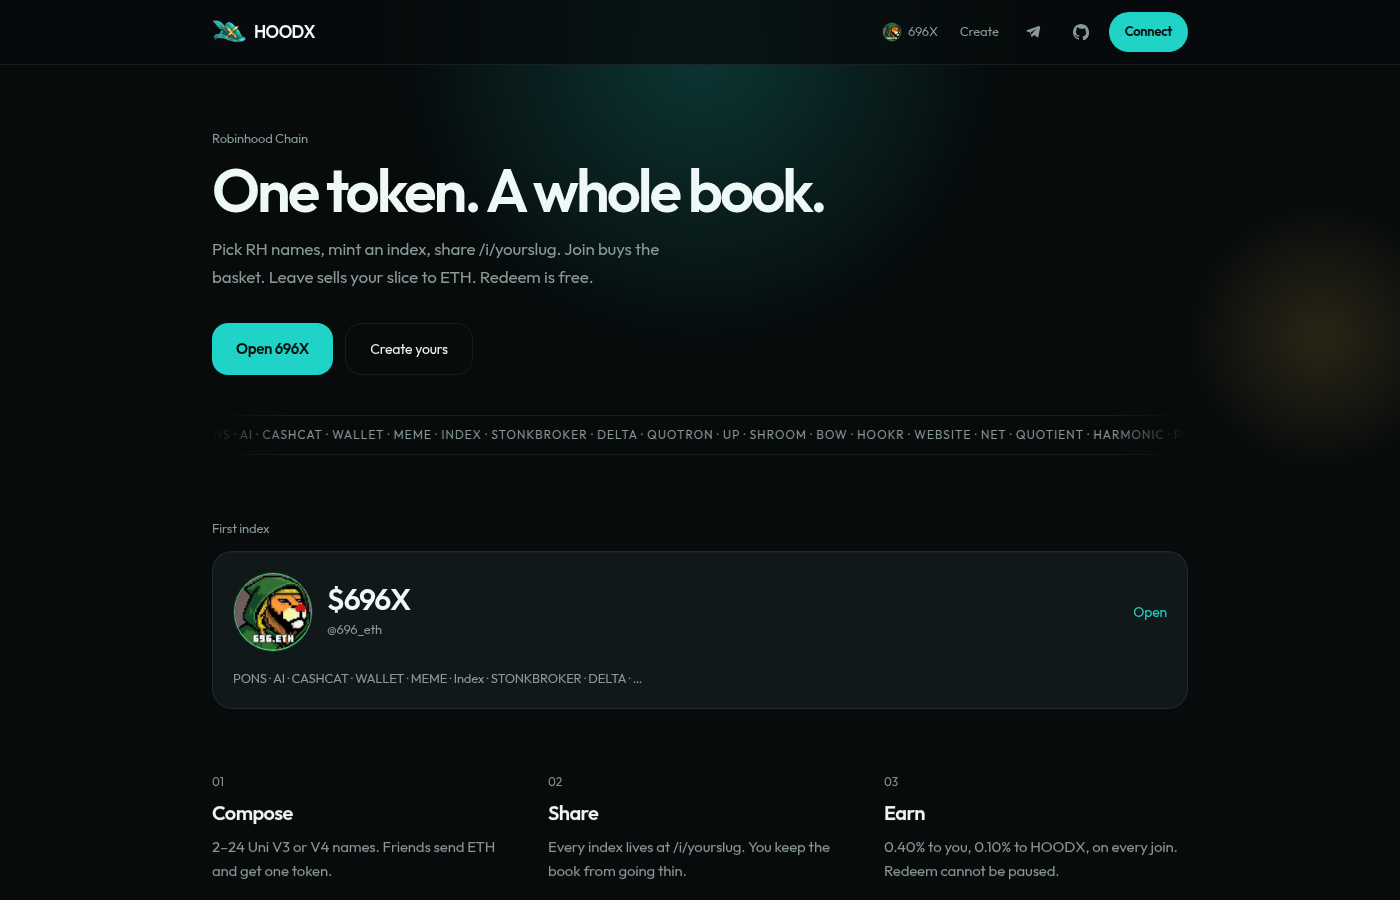
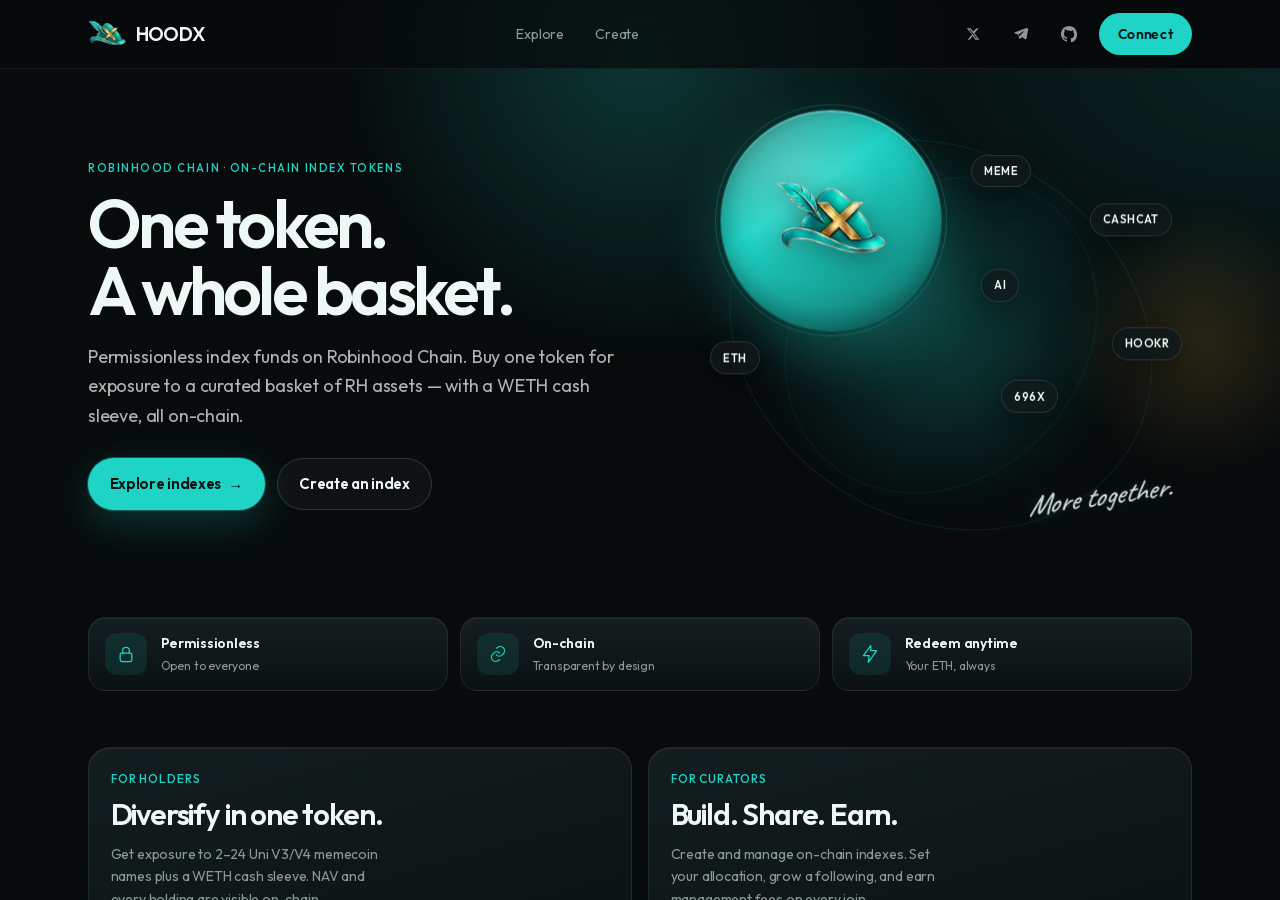
Refresh GitHub docs for hardened deploy and new landing
Update README, DESIGN, and QUOTE_BIND with the live factory, implementation,
swap logic, and vault addresses. Replace screenshots and copy with the new
"One token. A whole basket." landing and vault desk UI.

diff --git a/app/layout.tsx b/app/layout.tsx
@@ -36,7 +36,7 @@ export const metadata: Metadata = {
   alternates: { canonical: "/" },
   openGraph: {
     title: "HOODX",
-    description: "Live on Robinhood Chain. One token. A whole book.",
+    description: "Live on Robinhood Chain. One token. A whole basket.",
     url: SITE_URL,
     siteName: "HOODX",
     type: "website",

diff --git a/README.md b/README.md
@@ -5,8 +5,8 @@
 <h1 align="center">HOODX</h1>
 
 <p align="center">
-  <strong>The index factory for Robinhood Chain.</strong><br />
-  One token. A whole book.
+  <strong>Robinhood Chain · On-chain index tokens</strong><br />
+  One token. A whole basket.
 </p>
 
 <p align="center">
@@ -27,29 +27,30 @@
 </p>
 
 <p align="center">
-  <img src="docs/hud-home.png" alt="HOODX HUD — One token. A whole book." width="920" />
+  <img src="docs/hud-home.png" alt="HOODX — One token. A whole basket." width="920" />
 </p>
 
-HOODX is live on **Robinhood Chain (4663)**. Anyone can mint a trustless meme basket — 2 to 24 Uniswap V3 WETH/USDG or V4 ETH/stock-quote names — as a single ERC-20. Friends send ETH. The vault buys the book. They hold one token, not a folder of airdrops.
+HOODX is live on **Robinhood Chain (4663)**. Permissionless index funds — buy one token for exposure to a curated basket of RH assets, with a WETH cash sleeve, all on-chain. Anyone can mint 2–24 Uniswap V3 WETH/USDG or hookless V4 ETH/stock-quote names as a single ERC-20.
 
-You drop `/i/yourslug`. You keep the book from going thin. You earn a cut on every join. **Redeem is free, and it cannot be paused.**
+You drop `/i/yourslug`. You keep the basket from going thin. You earn a cut on every join. **Redeem is free, and it cannot be paused.**
 
 ---
 
 ## $696X is live
 
-**$696X** is index zero: [696_eth’s RH watchlist](https://x.com/696_eth/status/2100067116594725086) as one bag. The HUD carries 696’s X picture. One share starts at **$100 of ETH**. Join buys the mix. Leave sells your slice back to ETH.
+**$696X** is index zero: [696_eth’s RH watchlist](https://x.com/696_eth/status/2100067116594725086) as one basket. The HUD carries 696’s X picture. One share starts at **$100 of ETH**. Join buys the mix. Leave sells your slice back to ETH.
 
 <p align="center">
-  <img src="docs/hud-696x.png" alt="$696X — You, ROI, vault names, Join and Leave" width="920" />
+  <img src="docs/hud-696x.png" alt="$696X — vault desk, ROI, basket, join and leave" width="920" />
 </p>
 
 | | On-chain now |
 |---|---|
 | Vault | [`0xAC45f6FffB17645057aa783b72b2Ce78BD7A1a3A`](https://robinhoodchain.blockscout.com/address/0xAC45f6FffB17645057aa783b72b2Ce78BD7A1a3A) |
+| Factory | [`0x56809a2738A23650aF939F73588E72C67CafC19b`](https://robinhoodchain.blockscout.com/address/0x56809a2738A23650aF939F73588E72C67CafC19b) |
 | Status | **Live** · joins open · redeem open |
 | Share | ~0.04 ETH · genesis peg **$100** of ETH |
-| Book | 10 listed names · no hooked/thin books · Uni V3 TWAP + hookless V4 · 25% WETH cash |
+| Basket | 10 listed names · hooked/thin pools blocked · Uni V3 TWAP + hookless V4 · ~40% WETH cash |
 | Fees | 0.50% in · **0% out** |
 | First mint | Open · **0.08 ETH** (~$200). Later joins copy the live mix. |
 | Token image | On-chain `imageURI` / ERC-7572 `contractURI` · 696 PFP |
@@ -64,7 +65,7 @@ Telegram: [t.me/HOODXINDEX](https://t.me/HOODXINDEX)
   <tr>
     <td width="33%" valign="top">
       <h3>01 · Compose</h3>
-      <p>Pick 2–24 RH names with a Uni V3 WETH/USDG or V4 ETH/stock-quote pool. Paste any <code>0x</code> the HUD can price. Names too small stay ETH.</p>
+      <p>Pick 2–24 RH names with a Uni V3 WETH/USDG or hookless V4 ETH/stock-quote pool. Paste any <code>0x</code> the HUD can price. Names too small stay ETH.</p>
     </td>
     <td width="33%" valign="top">
       <h3>02 · Share</h3>
@@ -80,7 +81,7 @@ Telegram: [t.me/HOODXINDEX](https://t.me/HOODXINDEX)
 ```
 ETH in ── 0.10% protocol
        ── 0.40% creator
-       └── net buys the book (Uni V3 TWAP / V4 ETH, 3% max slip)
+       └── net buys the basket (Uni V3 TWAP / hookless V4, 3% max slip)
               ├── thin names stay WETH
               ├── cash sleeve for exits
               └── Leave sells your slice back to ETH. Fee: 0.
@@ -92,8 +93,8 @@ ETH in ── 0.10% protocol
 | Share at genesis | $100 of ETH | $100 of ETH |
 | Join | 0.50% | 0.10% protocol + 0–0.50% you |
 | Redeem | **0% · cannot be paused** | same |
-| Book | 2–24 names · curator rebalances | same |
-| Add a name | paste any RH `0x` with a V3 WETH or V4 ETH pool | same |
+| Basket | 2–24 names · curator rebalances | same |
+| Add a name | paste any RH `0x` with a safe V3 WETH or hookless V4 pool | same |
 
 A name that cannot fill inside 3% stays ETH. NAV is **every sleeve plus WETH** — not one pool token standing in for the fund. USD on the HUD is the live ETH tape, never a hardcoded price.
 
@@ -124,14 +125,14 @@ The factory is permissionless. `HoodxFactory.create` is for anyone. `create696x`
 
 ## HUD
 
-Next.js 15, viem, no private keys. Uniswap-quiet dark UI. Hat mark, teal `#1fd4c6`, gold `#e0b54a`.
+Next.js 15, viem, no private keys. Dark landing with teal `#1fd4c6`, gold `#e0b54a`, and the hat mark.
 
 Production: **[www.xhoodindex.com](https://www.xhoodindex.com)** (`xhoodindex.com` redirects there).
 
 | Route | |
 |---|---|
-| `/` | HOODX · featured $696X · create |
-| `/i/696x` | You / ROI / vault / NAV · join · leave · book |
+| `/` | Landing · explore indexes · create |
+| `/i/696x` | You / ROI / vault / NAV · join · leave · basket |
 | `/i/[slug]` | any index |
 | `/create` | mint |
 
@@ -141,23 +142,26 @@ npm install
 npm run dev     # http://127.0.0.1:3100
 ```
 
-Vercel builds this Next HUD from the repository root. `.env.example` already points at the live factory, $696X vault, and `https://www.xhoodindex.com`. Emptied clone `0xeBFA…5C24` (old factory `0x46ea…`) is ignored even if a stale `NEXT_PUBLIC_*` pin is still on the project.
+Vercel builds this Next HUD from the repository root. `.env.example` already points at the live hardened factory, $696X vault, and `https://www.xhoodindex.com`. Legacy pins (`0x46ea…`, `0xeBFA…`, `0x6350…`, `0x3860…`) are ignored even if a stale `NEXT_PUBLIC_*` is still on the project.
 
 ---
 
 ## Contracts
 
-Robinhood Chain **4663**. EIP-1167 clones of `HoodxIndex`.
+Robinhood Chain **4663**. EIP-1167 clones of hardened `HoodxIndex`.
 
 | | Address |
 |---|---|
 | **Factory** | [`0x56809a2738A23650aF939F73588E72C67CafC19b`](https://robinhoodchain.blockscout.com/address/0x56809a2738A23650aF939F73588E72C67CafC19b) |
-| Implementation | [`0x21B0aE9ecb112d828C6a66b82FdD413B99e44f19`](https://robinhoodchain.blockscout.com/address/0x21B0aE9ecb112d828C6a66b82FdD413B99e44f19) |
+| Implementation | [`0x7A5A47022E993401c5C6CFce0208c10fB032025E`](https://robinhoodchain.blockscout.com/address/0x7A5A47022E993401c5C6CFce0208c10fB032025E) |
+| Swap logic | [`0x2505a3185136cE990077a71c4929a115d9AEDf75`](https://robinhoodchain.blockscout.com/address/0x2505a3185136cE990077a71c4929a115d9AEDf75) |
 | **$696X vault** | [`0xAC45f6FffB17645057aa783b72b2Ce78BD7A1a3A`](https://robinhoodchain.blockscout.com/address/0xAC45f6FffB17645057aa783b72b2Ce78BD7A1a3A) |
 | TWAP oracle | [`0x815A0D4909460B29c70868e24831f575cA86F3aD`](https://robinhoodchain.blockscout.com/address/0x815A0D4909460B29c70868e24831f575cA86F3aD) |
 | WETH | [`0x0Bd7D308f8E1639FAb988df18A8011f41EAcAD73`](https://robinhoodchain.blockscout.com/address/0x0Bd7D308f8E1639FAb988df18A8011f41EAcAD73) |
 | Uni V3 SwapRouter02 | [`0xCaf681a66D020601342297493863E78C959E5cb2`](https://robinhoodchain.blockscout.com/address/0xCaf681a66D020601342297493863E78C959E5cb2) |
 | Uni V4 PoolManager | [`0x8366a39CC670B4001A1121B8F6A443A643e40951`](https://robinhoodchain.blockscout.com/address/0x8366a39CC670B4001A1121B8F6A443A643e40951) |
+
+Deprecated (do not use): bricked vault `0x6350…1E33` · emptied vault `0xeBFA…5C24` · legacy factories `0x46ea…d2b9` / `0x3860…Df71`.
 
 ```
 contracts/HoodxFactory.sol   permissionless clones · create / create696x · imageURI
@@ -168,13 +172,14 @@ contracts/UniTwap.sol        V3 TWAP + V4 spot oracle
 
 - `deposit(minShares)` — 97% of preview. Joins can close; **withdraw ignores pause**.
 - `withdraw(shares, minEthOut)` — sells the slice, 3% per swap.
+- Hooked V4 pools revert at bind. Thin pools and unsafe names are blocked in the HUD.
 - Two-step `owner` (nominate → Accept). Creator-only fee recipient and bps.
 - V3 TWAP + V4 spot (mint uses `max(spot, lastPx)`). `restoreCash` is V3-only.
 - Quote bind: V3 WETH, V3 USDG, V4 ETH/WETH, V4 stock quote (PROMETHEUS/SPCX), V4 USDG.
 - `imageURI` + ERC-7572 `contractURI` at create; curator can `setImageURI`.
 
 ```bash
-python3 -m unittest tests.test_weights tests.test_vault
+python3 -m unittest tests.test_weights tests.test_vault tests.test_harden
 ```
 
 Read **[DESIGN.md](DESIGN.md)** for mint math, oracle limits, and the drain catalog.
@@ -185,7 +190,7 @@ Read **[DESIGN.md](DESIGN.md)** for mint math, oracle limits, and the drain cata
 
 - **Redeem stays open** if joins are paused. User ETH is not a curator hostage.
 - A typo owner (zero, vault, WETH, dead) reverts. The new curator cannot steal the creator cut.
-- NAV sums every priced sleeve plus WETH. One dumped pool cannot mint the rest of the book cheap.
+- NAV sums every priced sleeve plus WETH. One dumped pool cannot mint the rest of the basket cheap.
 - The live $696X clone above is canonical. Do not treat a second 696X deploy as this product.
 - DYOR. Not HOOD10. Not a seeded Uni pool yet. Not financial advice.
 

diff --git a/QUOTE_BIND.md b/QUOTE_BIND.md
@@ -27,15 +27,16 @@ PROMETHEUS and similar names trade on **V4 stock-quote pools** (e.g. PROMETHEUS/
 
 Refresh bridges + bind pools: `python3 scripts/refresh_rh_bridges.py`
 
-## Live 696X (`0x6350…1E33`)
+## Live 696X (`0xAC45…1a3A`)
 
-Canonical vault is an EIP-1167 clone of implementation `0x21B0…4f19` with
-`HoodxSwap` + `UniTwapOracle`. PROMETHEUS is bound to PROMETHEUS/SPCX V4
-`0x627c…de2e8` (not the thin ETH stub). USDG V3/V4 and RH-stock quote binds
-work on this bytecode. Curator `setQuoteBridge` / `addToken` for new names
-without another relaunch.
+Canonical vault is an EIP-1167 clone of implementation `0x7A5A…025E` on
+factory `0x5680…C19b`, with hardened `HoodxSwap` + `UniTwapOracle`. Hooked V4
+pools revert at bind. PROMETHEUS/SPCX and USDG quote binds work on this
+bytecode. Curator `setQuoteBridge` / `addToken` for new names without another
+relaunch.
 
-Old emptied clone `0xeBFA…5C24` (factory `0x46ea…d2b9`) cannot be patched.
+Deprecated clones (`0x6350…1E33`, `0xeBFA…5C24`, older factories) cannot be
+patched and are ignored by the HUD.
 
 ## Security (carried from live / funds-safe)
 

diff --git a/DESIGN.md b/DESIGN.md
@@ -175,11 +175,13 @@ drift (sell the tail, buy PONS/AI/CASHCAT). Later joins copy the live mix.
 
 ## Live funds (do not trap)
 
-696X is live. User ETH sits in `0x6350f9e8e630785ABF09fD1127366998Ad821E33`.
-Do not pause, set floors, hand the book to a dead key, unwind, or redeploy
-that clone. Operator scripts that could trap funds are refused.
-The HUD remaps emptied factory/vault env pins (`0x46ea…` / `0xeBFA…`) so
-`/i/696x` cannot show the redeemed clone as Live.
+696X is live on the hardened factory. Canonical vault:
+`0xAC45f6FffB17645057aa783b72b2Ce78BD7A1a3A` (factory
+`0x56809a2738A23650aF939F73588E72C67CafC19b`). Do not pause, set floors,
+hand the basket to a dead key, unwind, or treat legacy clones as this product.
+Operator scripts that could trap funds are refused. The HUD remaps emptied /
+bricked / legacy factory pins (`0x46ea…`, `0xeBFA…`, `0x6350…`, `0x3860…`) so
+`/i/696x` cannot show an old clone as Live.
 
 On-chain: `withdraw` ignores `paused`. A held name with `priceWethWad == 0` reverts
 every exit (`Unpriced` / `NeedBuffer`). Curator HUD has no pause or setFloors.
